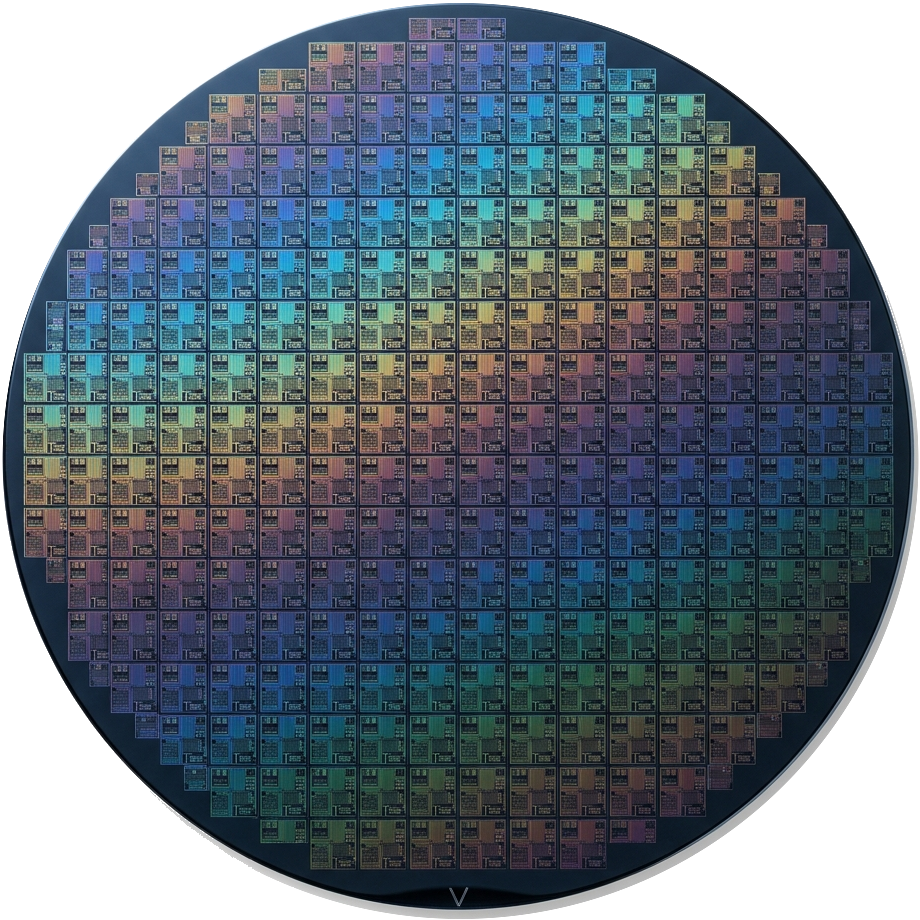
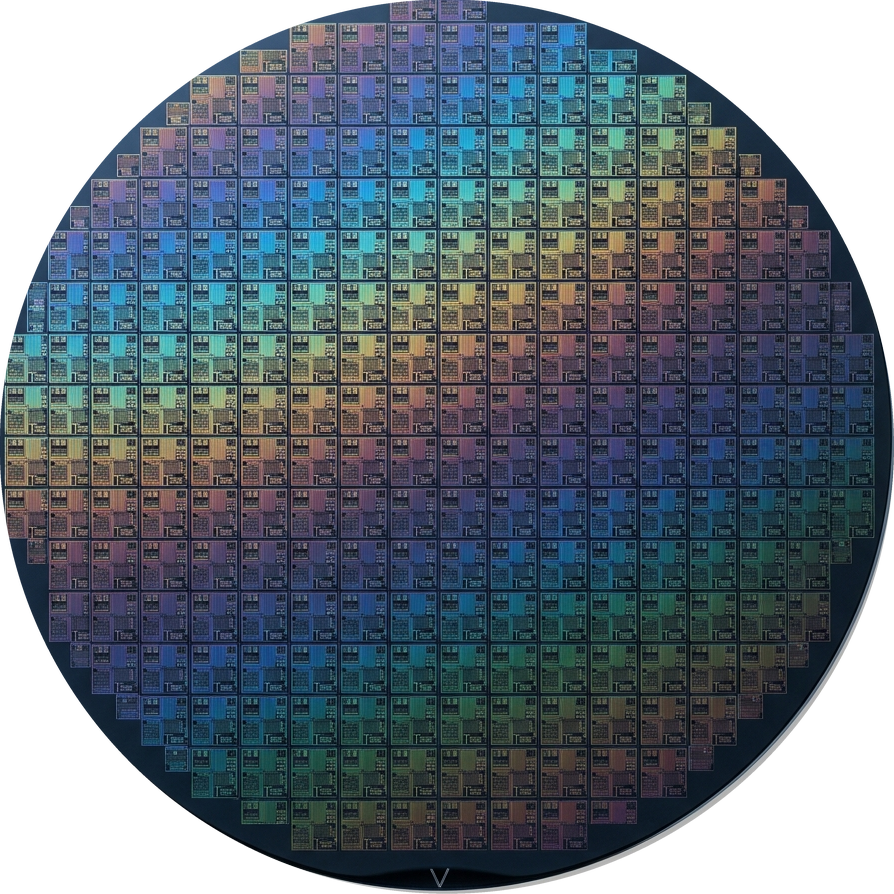
feat:

diff --git a/src/components/HeroConstellation.tsx b/src/components/HeroConstellation.tsx
@@ -3,17 +3,16 @@ import { motion, useMotionValue, useSpring, useTransform } from "motion/react";
 import SiliconWafer from "./SiliconWafer";
 import PhotorealisticWafer from "./PhotorealisticWafer";
 import F1Wheel from "./F1Wheel";
-import VaporChamber from "./VaporChamber";
-import SiliconDie from "./SiliconDie";
+import ProductDevice from "./ProductDevice";
 
 interface HeroConstellationProps {
   onColorChange?: (color: string) => void;
-  useRealisticWafer?: boolean; // false = canvas wafer interactif, true = wafer studio photoréaliste avec shimmer
+  useRealisticWafer?: boolean;
 }
 
 export default function HeroConstellation({
   onColorChange,
-  useRealisticWafer = false,
+  useRealisticWafer = true,
 }: HeroConstellationProps) {
   const containerRef = useRef<HTMLDivElement>(null);
 
@@ -24,10 +23,9 @@ export default function HeroConstellation({
   const ry = useSpring(useTransform(mx, [-1, 1], [-4, 4]), { stiffness: 140, damping: 22 });
 
   // Flottements en profondeur distincts selon les strates d'éléments
-  const f1X = useSpring(useTransform(mx, [-1, 1], [-10, 5]), { stiffness: 120, damping: 20 });
-  const waferX = useSpring(useTransform(mx, [-1, 1], [-5, 10]), { stiffness: 120, damping: 20 });
-  const topY = useSpring(useTransform(my, [-1, 1], [-6, 5]), { stiffness: 110, damping: 22 });
-  const bottomY = useSpring(useTransform(my, [-1, 1], [-3, 6]), { stiffness: 110, damping: 22 });
+  const f1X = useSpring(useTransform(mx, [-1, 1], [-8, 4]), { stiffness: 120, damping: 20 });
+  const waferX = useSpring(useTransform(mx, [-1, 1], [-4, 8]), { stiffness: 120, damping: 20 });
+  const productY = useSpring(useTransform(my, [-1, 1], [-6, 6]), { stiffness: 110, damping: 22 });
 
   const handleMouseMove = (e: React.MouseEvent<HTMLDivElement>) => {
     const rect = containerRef.current?.getBoundingClientRect();
@@ -43,52 +41,54 @@ export default function HeroConstellation({
 
   return (
     <div className="relative w-full select-none flex items-center justify-center">
-      {/* CONTENEUR COMPACT DE LA CONSTELLATION D'INGÉNIERIE (ÉCHELLE RÉDUITE) */}
+      {/* CONTENEUR COMPACT DE LA CONSTELLATION D'INGÉNIERIE */}
       <motion.div
         ref={containerRef}
         style={{ rotateX: rx, rotateY: ry, transformPerspective: 1200 }}
         onMouseMove={handleMouseMove}
         onMouseLeave={handleMouseLeave}
-        className="relative h-[410px] sm:h-[450px] md:h-[470px] w-full max-w-[560px] flex items-center justify-center"
+        className="relative h-[380px] sm:h-[420px] md:h-[450px] w-full max-w-[520px] flex items-center justify-center"
       >
         {/* ========================================================== */}
-        {/* 1. HAUT-DROITE : VAPOR CHAMBER CUIVRE MASSIF PHOTORÉALISTE  */}
+        {/* 1. HAUT-DROITE : OBJET PRODUIT / TECH MANAGER              */}
+        {/*    (Device Prototypage CNC / Chronomètre Titane)           */}
         {/* ========================================================== */}
         <motion.div
-          style={{ y: topY }}
+          style={{ y: productY }}
           initial={{ opacity: 0, y: -20, scale: 0.88 }}
           animate={{ opacity: 1, y: 0, scale: 1 }}
           transition={{ duration: 1.1, ease: [0.16, 1, 0.3, 1], delay: 0.15 }}
-          whileHover={{ scale: 1.08, rotateZ: 5, zIndex: 40 }}
-          className="absolute -top-4 right-2 sm:-top-6 sm:right-6 z-10 w-[145px] sm:w-[170px] md:w-[190px] rotate-6 cursor-pointer drop-shadow-[0_15px_30px_rgba(180,83,9,0.35)]"
+          whileHover={{ scale: 1.08, rotateZ: 4, zIndex: 40 }}
+          className="absolute -top-3 right-1 sm:-top-5 sm:right-4 z-20 w-[115px] sm:w-[135px] md:w-[150px] rotate-6 cursor-pointer"
         >
-          <VaporChamber />
+          <ProductDevice />
         </motion.div>
 
         {/* ========================================================== */}
-        {/* 2. CENTRE-GAUCHE : LE VOLANT F1 CARBONE PHOTORÉALISTE      */}
+        {/* 2. CENTRE-GAUCHE : LE VOLANT F1 CARBONE (TAILLE RÉDUITE)   */}
         {/* ========================================================== */}
         <motion.div
           style={{ x: f1X }}
-          initial={{ opacity: 0, x: -30, scale: 0.9 }}
+          initial={{ opacity: 0, x: -25, scale: 0.9 }}
           animate={{ opacity: 1, x: 0, scale: 1 }}
           transition={{ duration: 1.2, ease: [0.16, 1, 0.3, 1], delay: 0.2 }}
-          whileHover={{ scale: 1.06, rotateZ: -4, zIndex: 40 }}
-          className="absolute -left-4 sm:-left-8 md:-left-10 z-20 w-[175px] sm:w-[210px] md:w-[230px] -rotate-6 cursor-pointer"
+          whileHover={{ scale: 1.06, rotateZ: -3, zIndex: 40 }}
+          className="absolute -left-3 sm:-left-6 md:-left-8 z-20 w-[135px] sm:w-[160px] md:w-[180px] -rotate-6 cursor-pointer"
         >
           <F1Wheel />
         </motion.div>
 
         {/* ========================================================== */}
-        {/* 3. CENTRE-DROITE : LE GRAND WAFER SILICIUM 300mm           */}
+        {/* 3. CENTRE-DROITE : LE GRAND WAFER SILICIUM (TAILLE RÉDUITE)*/}
+        {/*    SANS AUCUN CONTOUR BLANC                                */}
         {/* ========================================================== */}
         <motion.div
           style={{ x: waferX }}
-          initial={{ opacity: 0, x: 30, scale: 0.9 }}
+          initial={{ opacity: 0, x: 25, scale: 0.9 }}
           animate={{ opacity: 1, x: 0, scale: 1 }}
           transition={{ duration: 1.2, ease: [0.16, 1, 0.3, 1], delay: 0.25 }}
           whileHover={{ scale: 1.06, zIndex: 40 }}
-          className="absolute -right-4 sm:-right-8 md:-right-10 z-20 w-[180px] sm:w-[215px] md:w-[235px] aspect-square flex items-center justify-center cursor-pointer drop-shadow-[0_22px_45px_rgba(0,0,0,0.35)]"
+          className="absolute -right-3 sm:-right-6 md:-right-8 z-15 w-[135px] sm:w-[160px] md:w-[180px] aspect-square flex items-center justify-center cursor-pointer"
         >
           {useRealisticWafer ? (
             <PhotorealisticWafer />
@@ -98,28 +98,14 @@ export default function HeroConstellation({
         </motion.div>
 
         {/* ========================================================== */}
-        {/* 4. BAS-GAUCHE : LE MICROPROCESSEUR / DIE SILICIUM MIROIR OR*/}
-        {/* ========================================================== */}
-        <motion.div
-          style={{ y: bottomY }}
-          initial={{ opacity: 0, y: 20, scale: 0.88 }}
-          animate={{ opacity: 1, y: 0, scale: 1 }}
-          transition={{ duration: 1.1, ease: [0.16, 1, 0.3, 1], delay: 0.35 }}
-          whileHover={{ scale: 1.1, rotateZ: -3, zIndex: 45 }}
-          className="absolute -bottom-3 left-8 sm:-bottom-5 sm:left-14 z-25 w-[90px] sm:w-[110px] md:w-[120px] -rotate-3 cursor-pointer drop-shadow-[0_16px_28px_rgba(212,175,55,0.35)]"
-        >
-          <SiliconDie />
-        </motion.div>
-
-        {/* ========================================================== */}
-        {/* 5. PREMIER PLAN CENTRAL : LA PHOTO D'ARTHUR (COINS ARRONDIS)*/}
+        {/* 4. PREMIER PLAN CENTRAL : LA PHOTO D'ARTHUR (COINS ARRONDIS)*/}
         {/* ========================================================== */}
         <motion.div
           initial={{ opacity: 0, scale: 0.92, y: 15 }}
           animate={{ opacity: 1, scale: 1, y: 0 }}
           transition={{ duration: 1.3, ease: [0.16, 1, 0.3, 1], delay: 0.3 }}
           whileHover={{ scale: 1.03, zIndex: 50 }}
-          className="relative z-30 w-[190px] sm:w-[220px] md:w-[245px] cursor-pointer overflow-hidden rounded-2xl sm:rounded-3xl shadow-[0_25px_60px_rgba(0,0,0,0.38)] transition-shadow duration-300 hover:shadow-[0_32px_75px_rgba(0,0,0,0.5)]"
+          className="relative z-30 w-[185px] sm:w-[215px] md:w-[235px] cursor-pointer overflow-hidden rounded-2xl sm:rounded-3xl shadow-[0_20px_50px_rgba(0,0,0,0.32)] transition-shadow duration-300 hover:shadow-[0_28px_65px_rgba(0,0,0,0.45)]"
         >
           <div className="aspect-[4/5] w-full overflow-hidden bg-ink/5">
             <img
@@ -133,4 +119,3 @@ export default function HeroConstellation({
     </div>
   );
 }
-

diff --git a/src/components/ProductDevice.tsx b/src/components/ProductDevice.tsx
@@ -1,0 +1,109 @@
+import { useRef, useState } from "react";
+import { motion, useMotionValue, useSpring, useTransform, AnimatePresence } from "motion/react";
+
+interface ProductDeviceProps {
+  interactive?: boolean;
+  variant?: "hardware" | "chronometer";
+  onToggleVariant?: () => void;
+}
+
+export default function ProductDevice({
+  interactive = true,
+  variant: controlledVariant,
+}: ProductDeviceProps) {
+  const containerRef = useRef<HTMLDivElement>(null);
+  const [internalVariant, setInternalVariant] = useState<"hardware" | "chronometer">("hardware");
+  const [isHovered, setIsHovered] = useState(false);
+
+  const activeVariant = controlledVariant ?? internalVariant;
+
+  // 3D Tilt interactif
+  const mx = useMotionValue(0);
+  const my = useMotionValue(0);
+  const rx = useSpring(useTransform(my, [-1, 1], [8, -8]), { stiffness: 180, damping: 20 });
+  const ry = useSpring(useTransform(mx, [-1, 1], [-8, 8]), { stiffness: 180, damping: 20 });
+
+  // Glint spéculaire sur l'aluminium anodisé ou le titane
+  const glareX = useSpring(useTransform(mx, [-1, 1], [10, 90]), { stiffness: 150, damping: 22 });
+  const glareY = useSpring(useTransform(my, [-1, 1], [10, 90]), { stiffness: 150, damping: 22 });
+
+  const handleMouseMove = (e: React.MouseEvent<HTMLDivElement>) => {
+    if (!interactive) return;
+    const rect = containerRef.current?.getBoundingClientRect();
+    if (!rect) return;
+    mx.set(((e.clientX - rect.left) / rect.width) * 2 - 1);
+    my.set(((e.clientY - rect.top) / rect.height) * 2 - 1);
+  };
+
+  const handleMouseLeave = () => {
+    mx.set(0);
+    my.set(0);
+    setIsHovered(false);
+  };
+
+  const handleToggle = () => {
+    if (!controlledVariant) {
+      setInternalVariant((v) => (v === "hardware" ? "chronometer" : "hardware"));
+    }
+  };
+
+  return (
+    <motion.div
+      ref={containerRef}
+      onClick={handleToggle}
+      onMouseMove={handleMouseMove}
+      onMouseEnter={() => setIsHovered(true)}
+      onMouseLeave={handleMouseLeave}
+      style={{ rotateX: rx, rotateY: ry, transformPerspective: 1200 }}
+      className="relative select-none aspect-square w-full flex items-center justify-center cursor-pointer group"
+      title="Cliquer pour alterner : Contrôleur Prototypage Hardware / Chronomètre Titane"
+    >
+      {/* OMBRE PORTÉE VOLUMÉTRIQUE */}
+      <div className="absolute inset-x-4 bottom-2 h-10 bg-black/35 blur-xl rounded-full transform scale-90 pointer-events-none" />
+
+      {/* PRODUIT HARDWARE / CHRONOMÈTRE DE MANAGEMENT */}
+      <div className="relative w-full h-full flex items-center justify-center filter drop-shadow-[0_18px_36px_rgba(0,0,0,0.4)]">
+        <AnimatePresence mode="wait">
+          {activeVariant === "hardware" ? (
+            <motion.img
+              key="hardware"
+              src="/assets/hardware-device.png"
+              alt="Device Prototypage & Product Management Aluminium CNC"
+              initial={{ opacity: 0, scale: 0.92, rotate: -4 }}
+              animate={{ opacity: 1, scale: 1, rotate: 0 }}
+              exit={{ opacity: 0, scale: 0.92, rotate: 4 }}
+              transition={{ duration: 0.4, ease: [0.16, 1, 0.3, 1] }}
+              className="w-full h-full object-contain pointer-events-none transition-transform duration-300 group-hover:scale-105"
+              draggable={false}
+            />
+          ) : (
+            <motion.img
+              key="chronometer"
+              src="/assets/titanium-chronometer.png"
+              alt="Chronomètre d'Ingénierie & Product Delivery Titane Grade 5"
+              initial={{ opacity: 0, scale: 0.92, rotate: 4 }}
+              animate={{ opacity: 1, scale: 1, rotate: 0 }}
+              exit={{ opacity: 0, scale: 0.92, rotate: -4 }}
+              transition={{ duration: 0.4, ease: [0.16, 1, 0.3, 1] }}
+              className="w-full h-full object-contain pointer-events-none transition-transform duration-300 group-hover:scale-105"
+              draggable={false}
+            />
+          )}
+        </AnimatePresence>
+
+        {/* LUEUR SPÉCULAIRE LORS DU SURVOL */}
+        <motion.div
+          style={{
+            background: useTransform(
+              [glareX, glareY],
+              ([gx, gy]) =>
+                `radial-gradient(circle at ${gx}% ${gy}%, rgba(255,255,255,0.4) 0%, transparent 65%)`
+            ),
+            opacity: isHovered ? 0.3 : 0,
+          }}
+          className="absolute inset-0 pointer-events-none mix-blend-overlay transition-opacity duration-300 rounded-2xl"
+        />
+      </div>
+    </motion.div>
+  );
+}

diff --git a/src/components/PhotorealisticWafer.tsx b/src/components/PhotorealisticWafer.tsx
@@ -41,14 +41,17 @@ export default function PhotorealisticWafer({ interactive = true }: Photorealist
       onMouseEnter={() => setIsHovered(true)}
       onMouseLeave={handleMouseLeave}
       style={{ rotateX: rx, rotateY: ry, transformPerspective: 1000 }}
-      className="relative select-none aspect-square w-full flex items-center justify-center cursor-pointer"
+      className="relative select-none aspect-square w-full flex items-center justify-center cursor-pointer group"
     >
-      {/* WAFER 300mm PHOTORÉALISTE */}
-      <div className="relative aspect-square w-full rounded-full overflow-hidden drop-shadow-[0_25px_50px_rgba(0,0,0,0.45)]">
+      {/* OMBRE PORTÉE NATURELLE */}
+      <div className="absolute inset-x-2 bottom-0 h-10 bg-black/35 blur-xl rounded-full transform scale-90 pointer-events-none" />
+
+      {/* WAFER 300mm PHOTORÉALISTE SANS AUCUN CONTOUR BLANC */}
+      <div className="relative aspect-square w-full rounded-full overflow-hidden shadow-[0_16px_36px_rgba(0,0,0,0.38)]">
         <img
           src="/assets/silicon-wafer.png"
           alt="Wafer Silicium 300mm SEMI Photorealiste"
-          className="size-full object-cover object-center pointer-events-none transition-transform duration-300 hover:scale-[1.02]"
+          className="size-full object-cover object-center pointer-events-none transition-transform duration-300 group-hover:scale-[1.03]"
           draggable={false}
         />
 
@@ -58,7 +61,7 @@ export default function PhotorealisticWafer({ interactive = true }: Photorealist
             background: useTransform(
               [specX, specY],
               ([sx, sy]) =>
-                `radial-gradient(circle at ${sx}% ${sy}%, rgba(255,255,255,0.42) 0%, rgba(56,189,248,0.28) 25%, rgba(236,72,153,0.22) 50%, rgba(245,158,11,0.18) 70%, transparent 85%)`
+                `radial-gradient(circle at ${sx}% ${sy}%, rgba(255,255,255,0.4) 0%, rgba(56,189,248,0.25) 25%, rgba(236,72,153,0.2) 50%, rgba(245,158,11,0.15) 70%, transparent 85%)`
             ),
           }}
           className="absolute inset-0 pointer-events-none mix-blend-screen transition-opacity duration-300"
